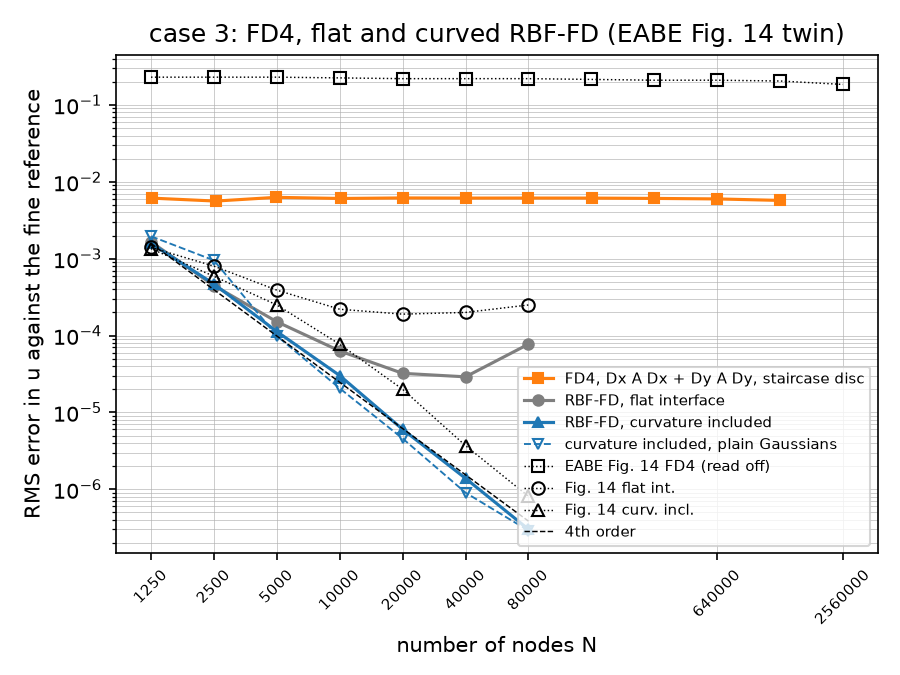
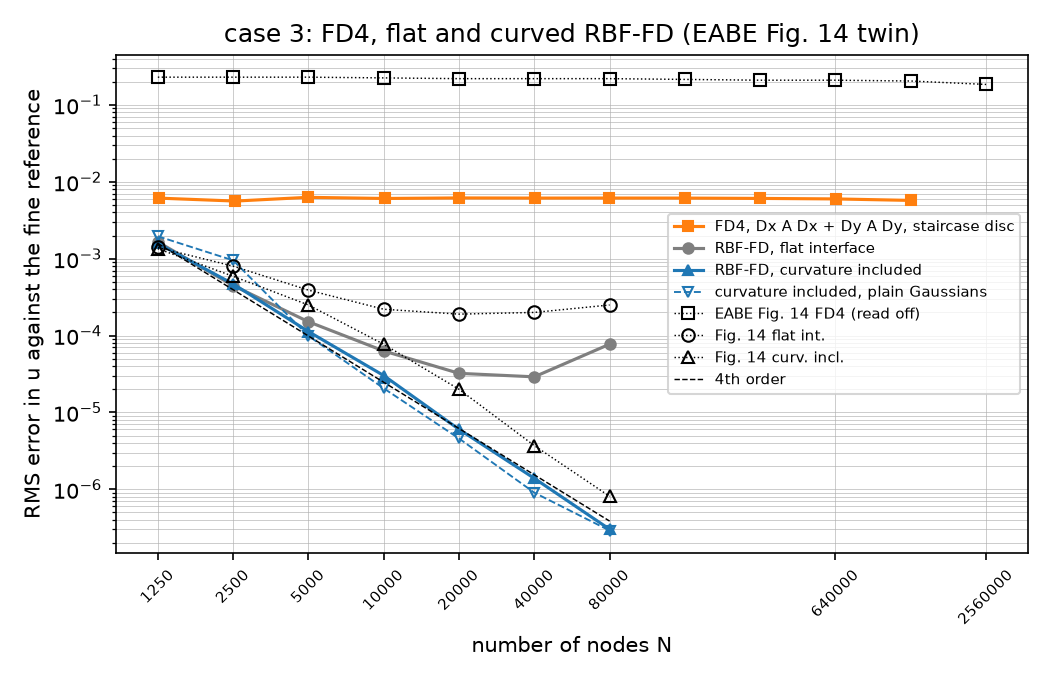
fix(heat2d): RingMode's docstring quotes the normalised climb, the recursion's scaled flux is named so, the Fig. 14 twin's legend clear of the markers (#21)
The two spar findings (both LOW): the class docstring gave the climb
across the ring before the u(scale_radius) = 1 scaling (1.05 against
0.12) where radial() and the tests see 0.665 against 0.078, and the
local variable of _solve that is r/m times the public flux() was called
flux too. The convergence figure is regenerated from the same run with a
wider layout so the legend no longer covers the 2016 marker at 80,000
nodes; its numbers are unchanged.

Claude-Session: https://claude.ai/code/session_01DVyAj9Cjm4arpVbLozusXW

diff --git a/src/heat_interfaces/heat2d/exact.py b/src/heat_interfaces/heat2d/exact.py
@@ -147,8 +147,9 @@ class RingMode:
     ``R`` and ``α R'`` are continuous at every radius, and the whole is
     scaled so that ``u = 1`` at ``(r, θ) = (scale_radius, 0)``. Across an
     insulating ring ``R`` climbs by about ``m α_out / α_ring`` times the
-    ring's width times ``r^(m-1)``: 1.05 at case 3's ring for ``m = 2``,
-    against 0.12 inside.
+    ring's width times ``r^(m-1)``, relative to ``r^m`` inside: at case 3's
+    ring for ``m = 2`` that is 1.05 against 0.12, which the scaling turns
+    into 0.665 against 0.078 in ``radial``.
     """
 
     radii: tuple[float, ...]
@@ -173,16 +174,16 @@ class RingMode:
         object.__setattr__(self, "_coefficients", self._solve())
 
     def _solve(self) -> np.ndarray:
-        # Walk outward: V = R and F = α (a r^m − b r^-m) (the flux times r/m)
-        # are continuous, and the next ring's pair follows from them.
+        # Walk outward: R and α (a r^m − b r^-m), the flux times r/m, are
+        # continuous, and the next ring's pair follows from them.
         m = self.mode
         coef = np.zeros((len(self.alphas), 2))
         coef[0] = [1.0, 0.0]
         for k, r in enumerate(self.radii):
             a, b = coef[k]
             value = a * r**m + b * r**-m
-            flux = self.alphas[k] * (a * r**m - b * r**-m)
-            up = flux / self.alphas[k + 1]
+            scaled_flux = self.alphas[k] * (a * r**m - b * r**-m)
+            up = scaled_flux / self.alphas[k + 1]
             coef[k + 1] = [(value + up) / (2 * r**m), (value - up) / (2 * r**-m)]
         last = coef[-1]
         norm = last[0] * self.scale_radius**m + last[1] * self.scale_radius**-m
